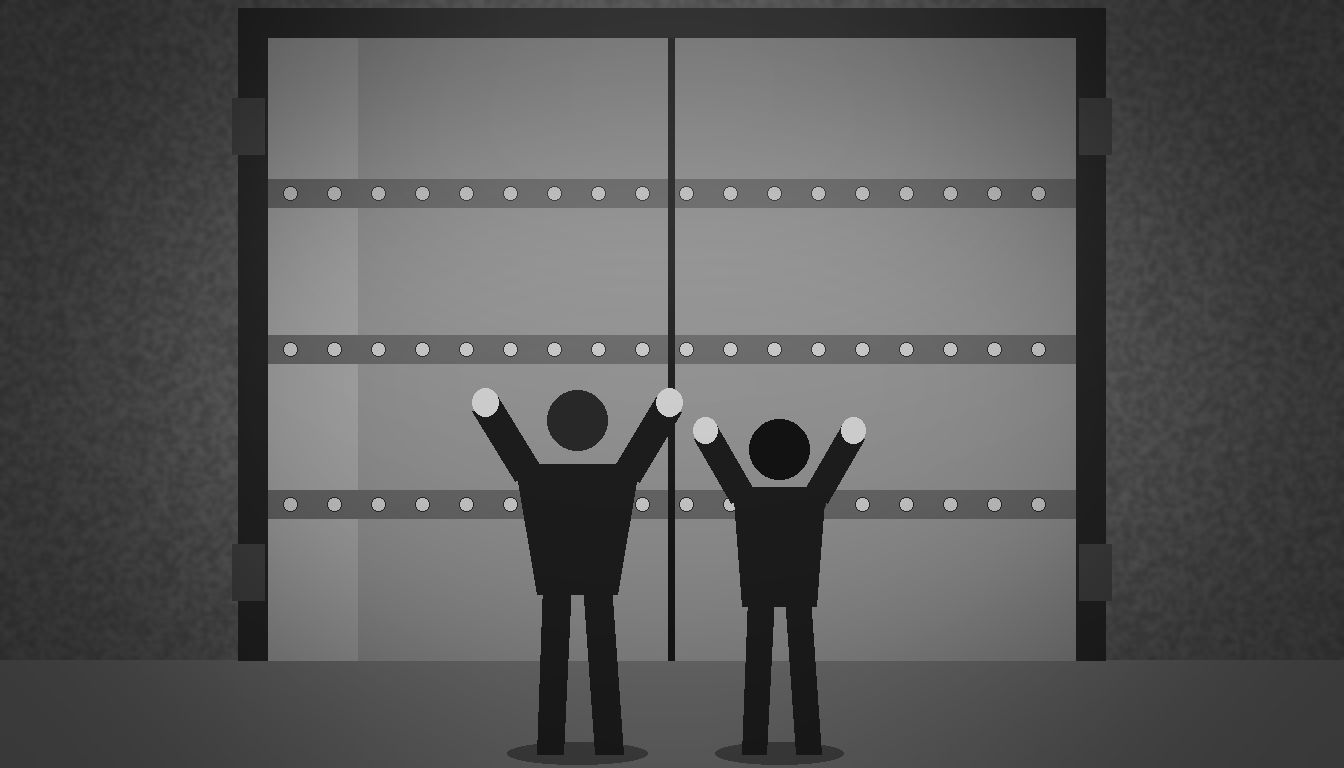
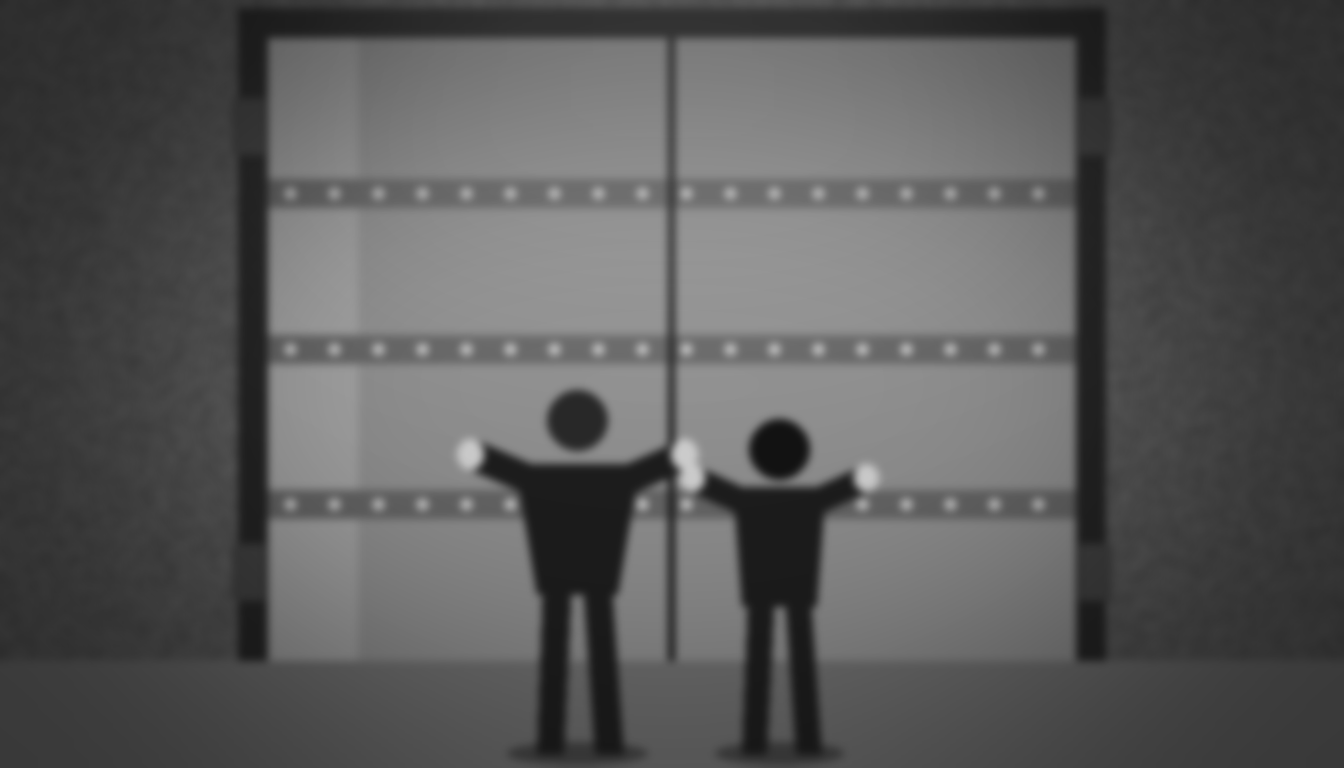
Export Chapter 1 page 17; redo p16_4 from a softer sketch
The door came out right but Gō and Riku stayed flat cut-outs with their
arms up; lower the arms to a push, blur the sketch, repaint at 0.8.

Claude-Session: https://claude.ai/code/session_01PF511aGmcMqQ6PCbPbr6tc

diff --git a/tools/manga/sketches.py b/tools/manga/sketches.py
@@ -148,13 +148,14 @@ def door_push(w=1344, h=768, seed=1604):
         sh = 62 * s if broad else 50 * s
         d.polygon([(x - sh, top + 70 * s), (x + sh, top + 70 * s), (x + 40 * s, base - 160 * s),
                    (x - 40 * s, base - 160 * s)], fill=GAKURAN)  # back of the jacket
-        for side in (-1, 1):  # arms up, palms flat on the door
-            hx = x + side * (sh + 30 * s)
-            d.line([(x + side * sh * 0.8, top + 80 * s), (hx, top + 10 * s)], fill=GAKURAN, width=int(30 * s))
-            d.ellipse([hx - 13 * s, top - 6 * s, hx + 13 * s, top + 22 * s], fill=SKIN)
+        for side in (-1, 1):  # arms forward at shoulder height, palms flat on the door
+            hx = x + side * (sh + 45 * s)
+            d.line([(x + side * sh * 0.8, top + 85 * s), (hx, top + 60 * s)], fill=GAKURAN, width=int(30 * s))
+            d.ellipse([hx - 13 * s, top + 45 * s, hx + 13 * s, top + 75 * s], fill=SKIN)
         r = 30 * s if broad else 33 * s
         d.ellipse([x - r, top - 4 * s, x + r, top + 2 * r - 4 * s], fill=(40, 40, 40) if broad else HAIR)
-    return vignette(img, 140)
+    # Soften the flat shapes, or the model keeps the boys as cartoon cut-outs.
+    return vignette(img.filter(ImageFilter.GaussianBlur(4)), 140)
 
 
 def frozen_class(w=1536, h=640, seed=2004):
